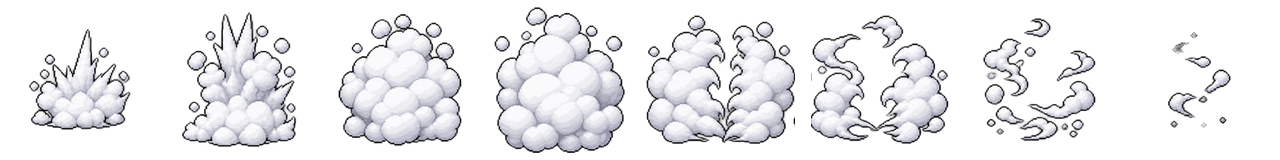
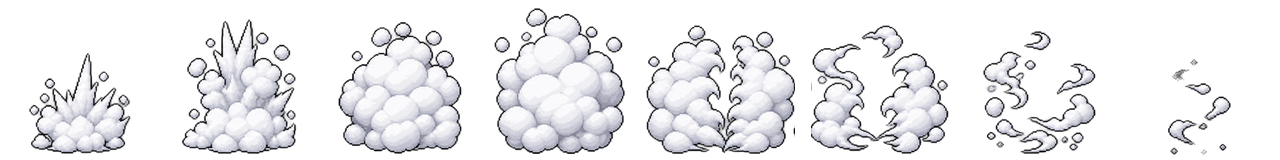
fix(gacha): la ceremonia apoyada en el suelo, sin rayos y sin chivatazo del pity
- La marca "subía y bajaba": el recorte centraba cada fotograma por su
  contenido y la columna de luz la empujaba hacia abajo. El script
  conserva ahora la altura que cada fotograma trae en la hoja, las dos
  tiras actuales están realineadas al suelo, y marca, humo y ninja se
  anclan a la misma línea de suelo. La marca se queda en el suelo
  durante el humo y la revelación, y el ninja aparece de pie sobre ella.
- Fuera los rayos de detrás del premio.
- Sprites más pequeños: el premio a ×2 y el cartel a ×1,5.
- La barra del pity enseña el estado de antes de la tirada hasta que
  acaba la ceremonia: vaciarse antes chivaba un legendario.

diff --git a/src/components/Summon/CeremoniaInvocacion.jsx b/src/components/Summon/CeremoniaInvocacion.jsx
@@ -72,6 +72,35 @@ function SelloDibujado({ color }) {
   );
 }
 
+// La línea de suelo de la escena (px desde abajo) y dónde anclar cada tira para que
+// apoye en ella. Las tiras traen el suelo en la misma fila de píxeles en todos sus
+// fotogramas (ver `tira()` en el script de sprites): la marca a 91 px de 128 en su
+// fotograma (27 por debajo del centro) y el humo a 154 de 160 (74). A ×2.
+const SUELO = 72;
+const ANCLA_SELLO = SUELO + 27 * 2;
+const ANCLA_HUMO = SUELO + 74 * 2;
+const CONTORNO_TINTA = 'drop-shadow(0 0 2px rgba(232, 226, 208, 0.75)) drop-shadow(0 0 6px rgba(232, 226, 208, 0.3))';
+
+/** Un fotograma concreto de una tira, quieto (la marca ya trazada, en el suelo). */
+function FotogramaQuieto({ animacion, indice, escala }) {
+  return (
+    <div style={{ transform: `scale(${escala})` }}>
+      <div
+        aria-hidden="true"
+        className="absolute pointer-events-none"
+        style={{
+          width: animacion.lado,
+          height: animacion.lado,
+          backgroundImage: `url(${animacion.src})`,
+          backgroundPosition: `-${indice * animacion.lado}px 0`,
+          imageRendering: 'pixelated',
+          transform: 'translate(-50%, -50%)',
+        }}
+      />
+    </div>
+  );
+}
+
 /** Una tira dibujada reproducida una vez, a `escala` enteros (pixel art). */
 function Tira({ animacion, escala, duracion }) {
   return (
@@ -144,51 +173,55 @@ export default function CeremoniaInvocacion({ premios, spriteDePremio, nombreDeP
       {fase === 'revelacion' && mejor.rareza === 'legendario' && (
         <div className="absolute inset-0 destello-legendario pointer-events-none" />
       )}
-      {/* El suelo: un óvalo de luz del color de la rareza que crece con el sello. */}
-      {/* Sin `-translate-x-1/2`: la animación ya mueve el `transform`, y en Tailwind v4
-          las dos cosas se suman (`translate` y `transform` son propiedades distintas),
-          así que la luz salía media anchura a la izquierda del personaje. */}
-      <div className="absolute left-1/2 bottom-10 w-80 h-16 rounded-[50%] suelo-invocacion"
-        style={{ background: `radial-gradient(ellipse, ${COLOR_NEUTRO}40, transparent 70%)` }} />
+      {/* EL SUELO. Todo se ancla a la misma línea: el centro de la luz del suelo está a
+          SUELO px del borde de abajo, y la marca, el humo y el ninja se colocan respecto a
+          ella. Antes cada uno iba a su altura y la marca "subía y bajaba" entre fases.
+          Sin `-translate-x-1/2` en la luz: su animación ya mueve el `transform`, y en
+          Tailwind v4 las dos cosas se suman. */}
+      <div className="absolute left-1/2 w-80 h-16 rounded-[50%] suelo-invocacion"
+        style={{ bottom: SUELO - 32, background: `radial-gradient(ellipse, ${COLOR_NEUTRO}40, transparent 70%)` }} />
 
       {fase === 'manos' && manos && (
-        <div className="absolute left-1/2 top-1/2">
+        <div className="absolute left-1/2 top-[42%]">
           <Tira animacion={manos} escala={2} duracion={MS_MANOS * factor} />
         </div>
       )}
 
-      {fase === 'sello' && (sello ? (
-        // La marca es de tinta negra (hoja 82): un contorno claro la despega del fondo
-        // oscuro sin darle color, que destriparía la rareza.
-        <div className="absolute left-1/2 bottom-24" style={{ filter: 'drop-shadow(0 0 2px rgba(232, 226, 208, 0.75)) drop-shadow(0 0 6px rgba(232, 226, 208, 0.3))' }}>
-          <Tira animacion={sello} escala={2} duracion={MS_SELLO * factor} />
+      {/* La marca se traza en su fase y SE QUEDA en el suelo durante el humo y la
+          revelación (su fotograma completo, quieto): es donde aparece el ninja. */}
+      {sello ? (
+        <div className="absolute left-1/2" style={{ bottom: ANCLA_SELLO, filter: CONTORNO_TINTA, opacity: fase === 'sello' ? 1 : 0.85 }}>
+          {fase === 'sello'
+            ? <Tira animacion={sello} escala={2} duracion={MS_SELLO * factor} />
+            : fase !== 'manos' && <FotogramaQuieto animacion={sello} indice={3} escala={2} />}
         </div>
-      ) : (
+      ) : fase === 'sello' && (
         <div className="absolute left-1/2 bottom-2 sello-sube">
           <div style={{ transform: 'perspective(600px) rotateX(62deg)' }}><SelloDibujado color="#111111" /></div>
         </div>
-      ))}
-
-      {fase === 'humo' && (
-        <div className="absolute left-1/2 top-1/2">
-          {humo
-            ? <Tira animacion={humo} escala={2} duracion={MS_HUMO * factor} />
-            : <div style={{ transform: 'scale(4)' }}><TiraDeEfecto nombre="humo" /></div>}
-        </div>
       )}
 
-      {fase === 'revelacion' && (
-        <div className="relative flex flex-col items-center gap-2">
-          <div className="absolute left-1/2 top-1/2 -translate-x-1/2 -translate-y-[60%] w-96 h-96 rayos-invocacion" style={{ '--color-sello': color }} />
-          {/* ×3 exacto del lienzo de 96 px: el pixel art a escala entera. */}
-          <div className="relative w-72 h-72 flex items-center justify-center entrada-transformado">
-            {sprite && <img src={sprite} alt="" className="w-72 h-72 object-contain" style={{ imageRendering: 'pixelated' }} />}
-          </div>
-          <p className="relative font-naruto text-2xl text-pergamino-100 contorno-fijo">{nombreDePremio(mejor)}</p>
-          <p className="relative font-display text-[10px]" style={{ color }}>
-            {ETIQUETA[mejor.rareza]}{DETALLE_EFECTO[mejor.efecto]?.(mejor) ?? ''}
-          </p>
+      {fase === 'humo' && (humo ? (
+        <div className="absolute left-1/2" style={{ bottom: ANCLA_HUMO }}>
+          <Tira animacion={humo} escala={2} duracion={MS_HUMO * factor} />
         </div>
+      ) : (
+        <div className="absolute left-1/2 top-1/2"><div style={{ transform: 'scale(4)' }}><TiraDeEfecto nombre="humo" /></div></div>
+      ))}
+
+      {fase === 'revelacion' && (
+        <>
+          {/* El ninja DE PIE sobre la marca, a ×2 (192 px): a ×3 se veía pixelado. */}
+          <div className="absolute left-1/2 -translate-x-1/2 w-48 h-48 entrada-transformado" style={{ bottom: SUELO - 36 }}>
+            {sprite && <img src={sprite} alt="" className="w-48 h-48 object-contain" style={{ imageRendering: 'pixelated' }} />}
+          </div>
+          <div className="absolute top-6 inset-x-0 flex flex-col items-center gap-1 aparecer-nombre">
+            <p className="font-naruto text-3xl text-pergamino-100 contorno-fijo">{nombreDePremio(mejor)}</p>
+            <p className="font-display text-[10px]" style={{ color }}>
+              {ETIQUETA[mejor.rareza]}{DETALLE_EFECTO[mejor.efecto]?.(mejor) ?? ''}
+            </p>
+          </div>
+        </>
       )}
 
       <p className="absolute bottom-2 text-[9px] font-display text-pergamino-200/50">

diff --git a/src/components/Summon/InvocacionScreen.jsx b/src/components/Summon/InvocacionScreen.jsx
@@ -106,10 +106,10 @@ function Cartel({ conseguidos, total }) {
       <div className="absolute inset-x-0 bottom-4 flex justify-around items-end px-4">
         {legendarios.map((e) => (
           <div key={e.id} className="flex flex-col items-center">
-            {/* ×2 exacto del lienzo de 96 px. */}
-            <img src={spriteDeLuchador(e.id)} alt="" aria-hidden="true" className="w-48 h-48 object-contain"
+            {/* ×1,5 del lienzo de 96 px: a ×2 se veían demasiado pixelados. */}
+            <img src={spriteDeLuchador(e.id)} alt="" aria-hidden="true" className="w-36 h-36 object-contain"
               style={{ imageRendering: 'pixelated' }} />
-            <div className="w-28 h-4 -mt-5 rounded-[50%] bg-black/45" />
+            <div className="w-20 h-3 -mt-4 rounded-[50%] bg-black/45" />
           </div>
         ))}
       </div>
@@ -161,6 +161,9 @@ export default function InvocacionScreen() {
   const [tirada, setTirada] = useState(0);
   // Los resultados solo se enseñan cuando la ceremonia acaba: antes destripaban la revelación.
   const [ceremoniaVista, setCeremoniaVista] = useState(false);
+  // El estado del gacha ANTES de la última tirada: el pity se enseña con él hasta que
+  // acaba la ceremonia, o la barra vaciándose chivaba que había salido un legendario.
+  const [estadoAntes, setEstadoAntes] = useState(null);
 
   const reglas = invocacionData;
   const personajes = useAchievementsStore.getState().personajesInicialesExtra();
@@ -169,11 +172,13 @@ export default function InvocacionScreen() {
   const conseguidos = CATALOGO_INVOCACION.filter((e) => listas[e.tipo].includes(e.id)).length;
 
   function invocar(numero) {
+    const antes = useAchievementsStore.getState().invocacion;
     const premios = useAchievementsStore.getState().invocar(numero);
     if (premios) {
       setUltimos(premios);
       setTirada((n) => n + 1);
       setCeremoniaVista(false);
+      setEstadoAntes(antes);
     }
   }
 
@@ -200,7 +205,7 @@ export default function InvocacionScreen() {
               {saldo} summoning scrolls
             </p>
           </div>
-          <PanelProbabilidades estado={estado} />
+          <PanelProbabilidades estado={!ceremoniaVista && estadoAntes ? estadoAntes : estado} />
         </div>
 
         {/* Solo lo último que ha salido, y solo cuando la ceremonia acaba. La colección

diff --git a/src/index.css b/src/index.css
@@ -711,21 +711,16 @@ img {
 .salir-del-humo { opacity: 0; animation: salir-del-humo calc(380ms * var(--factor-animacion, 1)) ease-out forwards; }
 
 /* Ceremonia v2: el sello SUBE del suelo (escala vertical desde 0), el óvalo de luz del
-   suelo crece con él, y en la revelación unos rayos giran detrás del premio. */
+   suelo crece con él. */
 @keyframes sello-sube { from { transform: translateX(-50%) scaleY(0.05); opacity: 0; } 40% { opacity: 1; } to { transform: translateX(-50%) scaleY(1); opacity: 1; } }
 .sello-sube { transform-origin: bottom center; animation: sello-sube calc(500ms * var(--factor-animacion, 1)) ease-out forwards; }
 @keyframes suelo-invocacion { from { transform: translateX(-50%) scale(0.2); opacity: 0; } to { transform: translateX(-50%) scale(1); opacity: 1; } }
 .suelo-invocacion { animation: suelo-invocacion calc(700ms * var(--factor-animacion, 1)) ease-out forwards; }
-@keyframes rayos-invocacion { to { transform: rotate(360deg); } }
-.rayos-invocacion {
-  background: repeating-conic-gradient(from 0deg at 50% 50%, color-mix(in srgb, var(--color-sello) 45%, transparent) 0deg 10deg, transparent 10deg 30deg);
-  border-radius: 50%;
-  filter: blur(2px);
-  animation: rayos-invocacion calc(9s * var(--factor-animacion, 1)) linear infinite;
-}
 /* El legendario: fogonazo dorado que llena la escena y un temblor corto. */
 @keyframes destello-legendario { 0% { opacity: 0; } 12% { opacity: 0.85; } 100% { opacity: 0; } }
 .destello-legendario { background: radial-gradient(circle, #fff6d5 0%, #D4A93A 45%, transparent 75%); animation: destello-legendario calc(900ms * var(--factor-animacion, 1)) ease-out forwards; }
 @keyframes temblor-legendario { 0%, 100% { transform: translate(0, 0); } 20% { transform: translate(-4px, 2px); } 40% { transform: translate(4px, -2px); } 60% { transform: translate(-3px, -1px); } 80% { transform: translate(2px, 1px); } }
 .temblor-legendario { animation: temblor-legendario calc(380ms * var(--factor-animacion, 1)) linear 2; }
+@keyframes aparecer-nombre { from { opacity: 0; transform: translateY(-10px); } to { opacity: 1; transform: none; } }
+.aparecer-nombre { animation: aparecer-nombre calc(450ms * var(--factor-animacion, 1)) ease-out 200ms both; }
 

diff --git a/scripts/generar-sprites-estilo-nuevo.py b/scripts/generar-sprites-estilo-nuevo.py
@@ -520,20 +520,30 @@ def tira(hoja, fotogramas, lado):
     del mismo tamaño. Por lo mismo no se limpian "restos del vecino": los últimos
     fotogramas de un desvanecido son motas sueltas a propósito.
     """
+    # ⚠ En vertical se CONSERVA la posición que cada fotograma trae en la hoja (se
+    # recorta la banda común a todos, no cada uno a su caja). Centrando cada uno por
+    # separado, la marca de invocación "bajaba" en cuanto le crecía la columna de luz
+    # por encima, y el humo saltaba de altura: lo que está en el suelo tiene que
+    # seguir en el suelo en todos los fotogramas (playtest 2026-10-16).
     trozos = []
     for x0, x1 in cortes(hoja, fotogramas):
         trozo = hoja.crop((x0, 0, x1, hoja.height))
         trozo.putalpha(trozo.getchannel('A').point(lambda a: a if a >= ALFA_MINIMO else 0))
         caja = mascara(trozo).getbbox()
-        trozos.append(trozo.crop(caja) if caja else None)
+        trozos.append((trozo, caja) if caja else None)
     vivos = [x for x in trozos if x]
-    escala = min(lado * 0.94 / max(x.width for x in vivos), lado * 0.94 / max(x.height for x in vivos))
+    arriba = min(caja[1] for _, caja in vivos)
+    abajo = max(caja[3] for _, caja in vivos)
+    alto_banda = abajo - arriba
+    escala = min(lado * 0.94 / max(caja[2] - caja[0] for _, caja in vivos), lado * 0.94 / alto_banda)
+    y_banda = (lado - alto_banda * escala) / 2
     resultado = Image.new('RGBA', (lado * fotogramas, lado), (0, 0, 0, 0))
-    for k, trozo in enumerate(trozos):
-        if trozo is None:
+    for k, par in enumerate(trozos):
+        if par is None:
             continue
-        d = reducir(trozo, trozo.width * escala, trozo.height * escala)
-        resultado.alpha_composite(d, (k * lado + (lado - d.width) // 2, (lado - d.height) // 2))
+        trozo, caja = par
+        d = reducir(trozo.crop(caja), (caja[2] - caja[0]) * escala, (caja[3] - caja[1]) * escala)
+        resultado.alpha_composite(d, (k * lado + (lado - d.width) // 2, round(y_banda + (caja[1] - arriba) * escala)))
     return resultado
 
 
